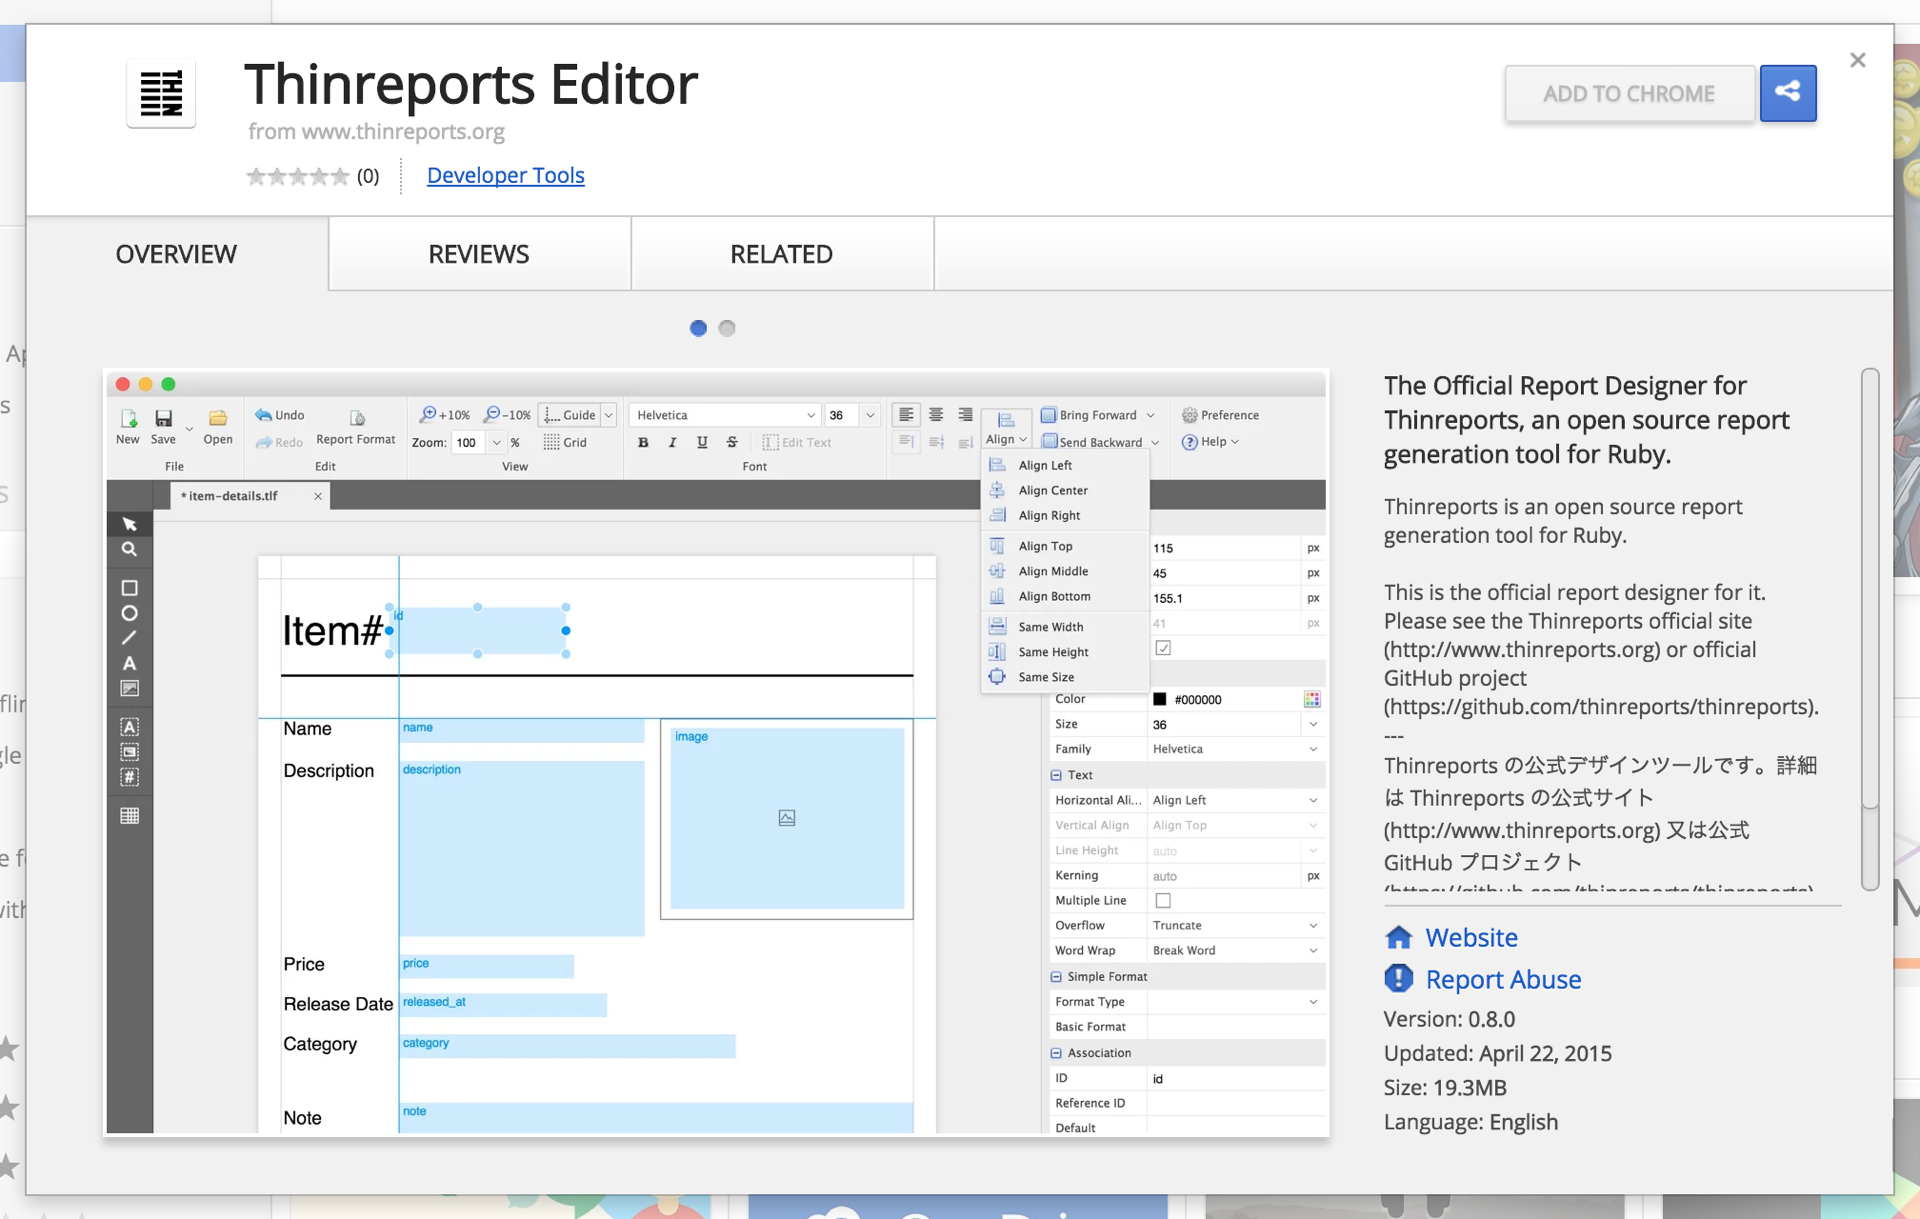
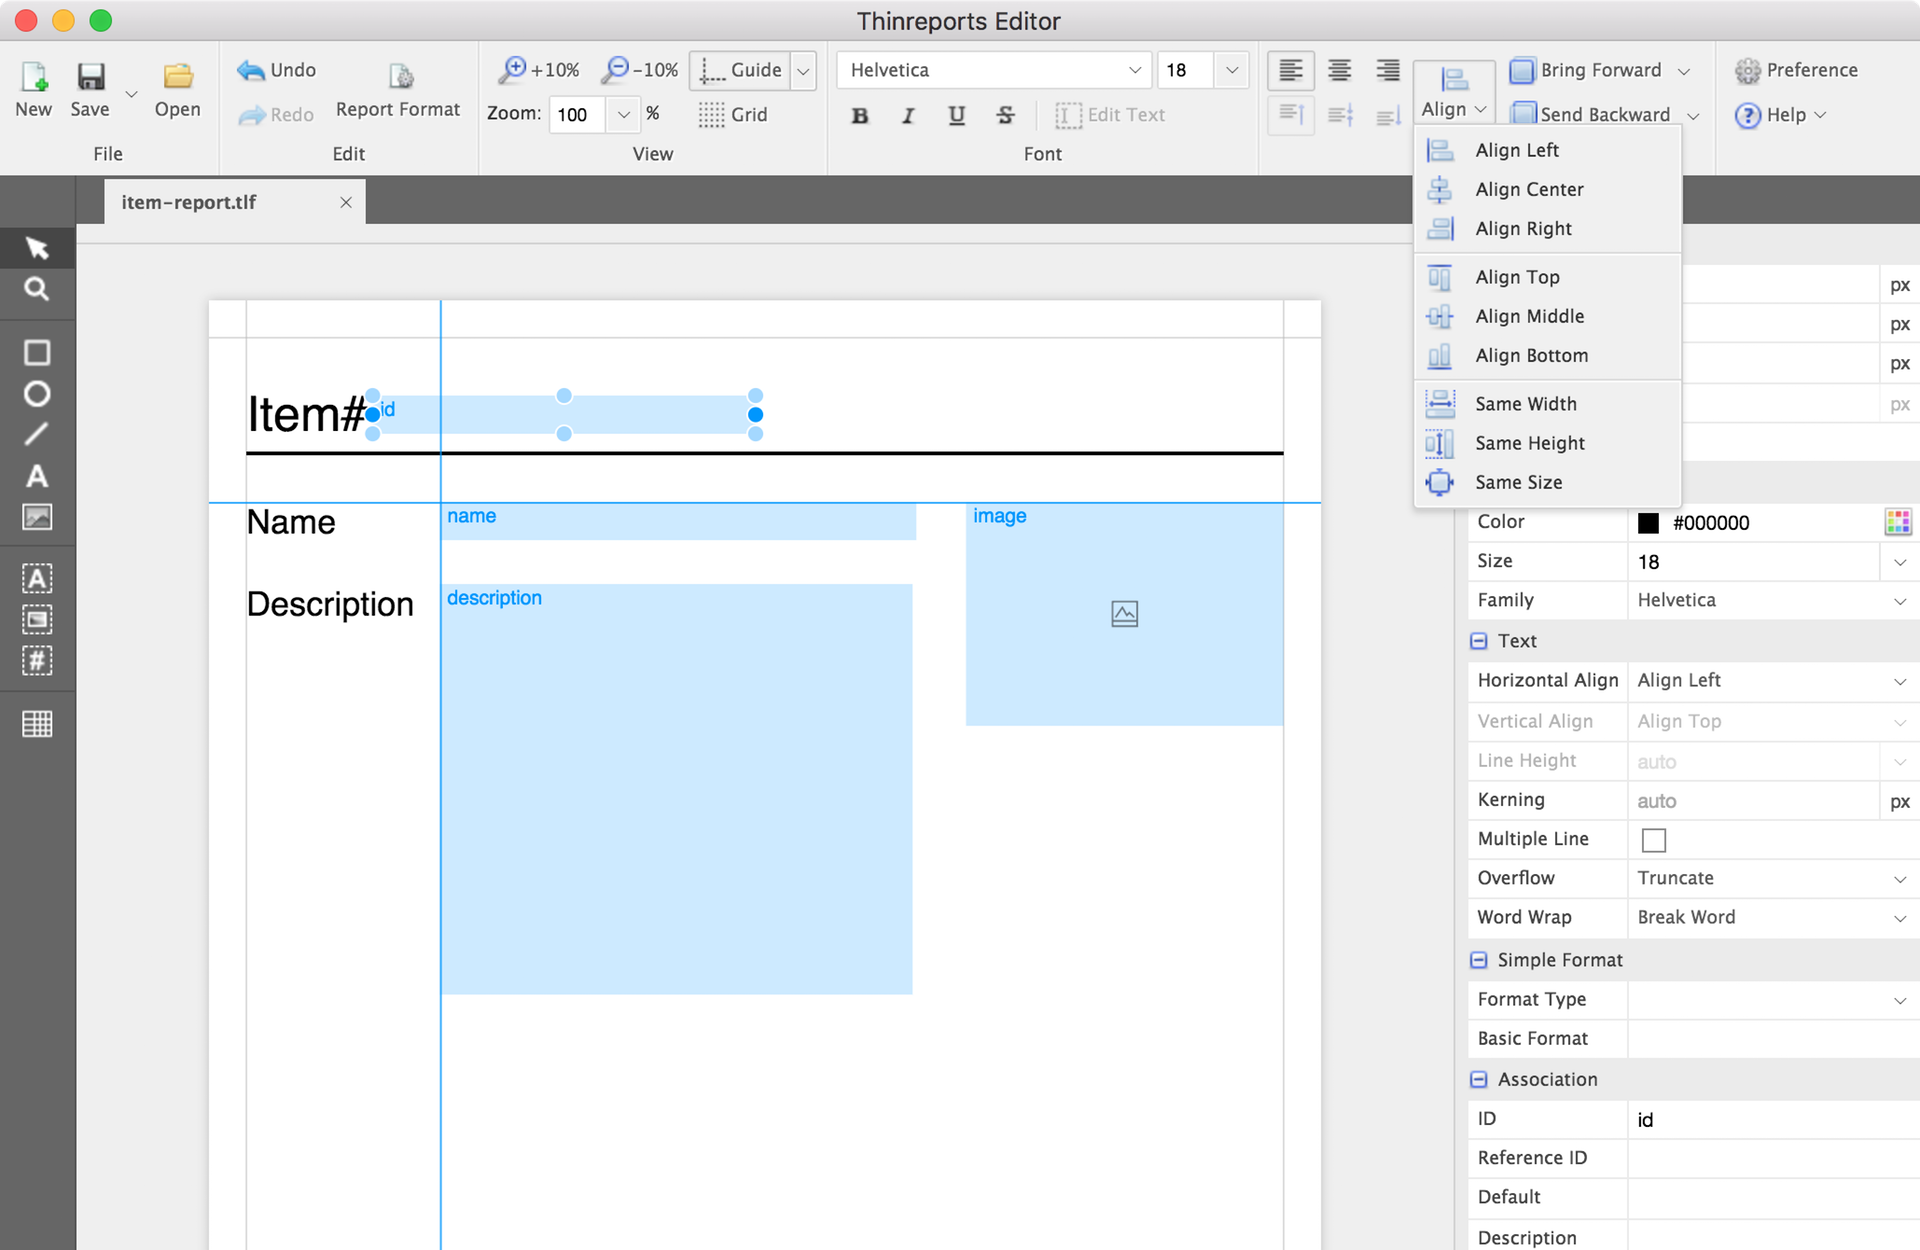
Update contents for Editor according to New version 0.10.0

diff --git a/content/features/editor.html b/content/features/editor.html
@@ -19,8 +19,7 @@ title: "Features › Thinreports Editor"
     Thinreports Editor は Thinreports で扱う帳票レイアウトを編集する専用のGUIツールです。
     Editor を使うことによって、マウスやキーボードによる直感的な操作で業務システムで求められるような、
     複雑な帳票レイアウトも簡単に作成することが可能です。
-    バージョン 0.8.0 より Chrome アプリケーションとして動作するため Windows や Mac, Linux など
-    Chrome アプリケーションがサポートするプラットフォームで動作します。
+    Mac と Ubuntu(linux) 及び Windows プラットフォームをサポートしています。
   </p>
   <p>
     Thinreports Editor の特徴は以下の通りです。
@@ -63,9 +62,7 @@ title: "Features › Thinreports Editor"
 <div class="section">
   <h3>Supported Platforms</h3>
   <p>
-    Thinreports Editor は、バージョン 0.8.0 より Chrome アプリケーションとして動作し、
-    Chrome アプリケーションがサポートするデスクトッププラットフォームをサポートします。
-    Chrome アプリケーションのサポートプラットフォームは <%= link_to 'What Are Chrome Apps? - Google Chrome', 'https://developer.chrome.com/apps/about_apps' %> を 確認してください。
+    See <%= link_to 'thinreports/thinreports-editor/README.md', 'https://github.com/thinreports/thinreports-editor#supported-platforms' %>
   </p>
 </div>
 

diff --git a/content/download.html b/content/download.html
@@ -11,15 +11,14 @@ title: Download
     <span class="released-at"><%= formatted_release_date editor_release['released_at'] %></span>
   </h3>
   <ul class="navigates">
-    <li><%= link_to_related_url :chrome_web_store, 'Download', class: 'navigate' %></li>
+    <li><%= link_to_related_url :editor_releases, 'Download', class: 'navigate' %></li>
     <li><%= link_to 'Release Announcement', editor_release['announcement'], class: 'navigate' %></li>
     <li><%= link_to_changelog_for :editor, 'Changelog', class: 'navigate' %></li>
     <li><%= link_to 'Installation Guide', '/documentation/ja/getting-started/installation.html', class: 'navigate' %></li>
   </ul>
   <p class="clearfix">
-    Thinreports Editor は Chrome アプリケーションです。<%= link_to_related_url :chrome_web_store, 'Chrome Web Store', target: '_blank' %> よりインストールできます。
-    利用するためには Chrome ブラウザが必要です。利用可能な OS や必要なソフトウェア、
-    インストール手順については <%= link_to 'Installation Guide', '/documentation/ja/getting-started/installation.html' %> を確認してください。
+    Editor はデスクトップアプリケーションです。利用可能な OS や必要なソフトウェア、
+    インストール手順は <%= link_to 'Installation Guide', '/documentation/ja/getting-started/installation.html' %> を確認してください。
   </p>
 </div>
 

diff --git a/content/index.html b/content/index.html
@@ -9,7 +9,7 @@ title: オープンソース PDF 帳票ツール for Ruby, Rails
       <a class="slide-1" href="https://rubygems.org/gems/thinreports" target="_blank">
         <img alt="Thinreports Generator" src="/assets/images/slides/slide-thinreports-gem.png" class="slide-1">
       </a>
-      <a class="slide-2" href="<%= site_related_url['chrome_web_store'] %>" target="_blank">
+      <a class="slide-2" href="<%= site_related_url['editor_releases'] %>" target="_blank">
         <img alt="Thinreports Editor" src="/assets/images/slides/slide-thinreports-editor.png">
       </a>
       <a class="slide-3" href="https://github.com/thinreports" target="_blank">
